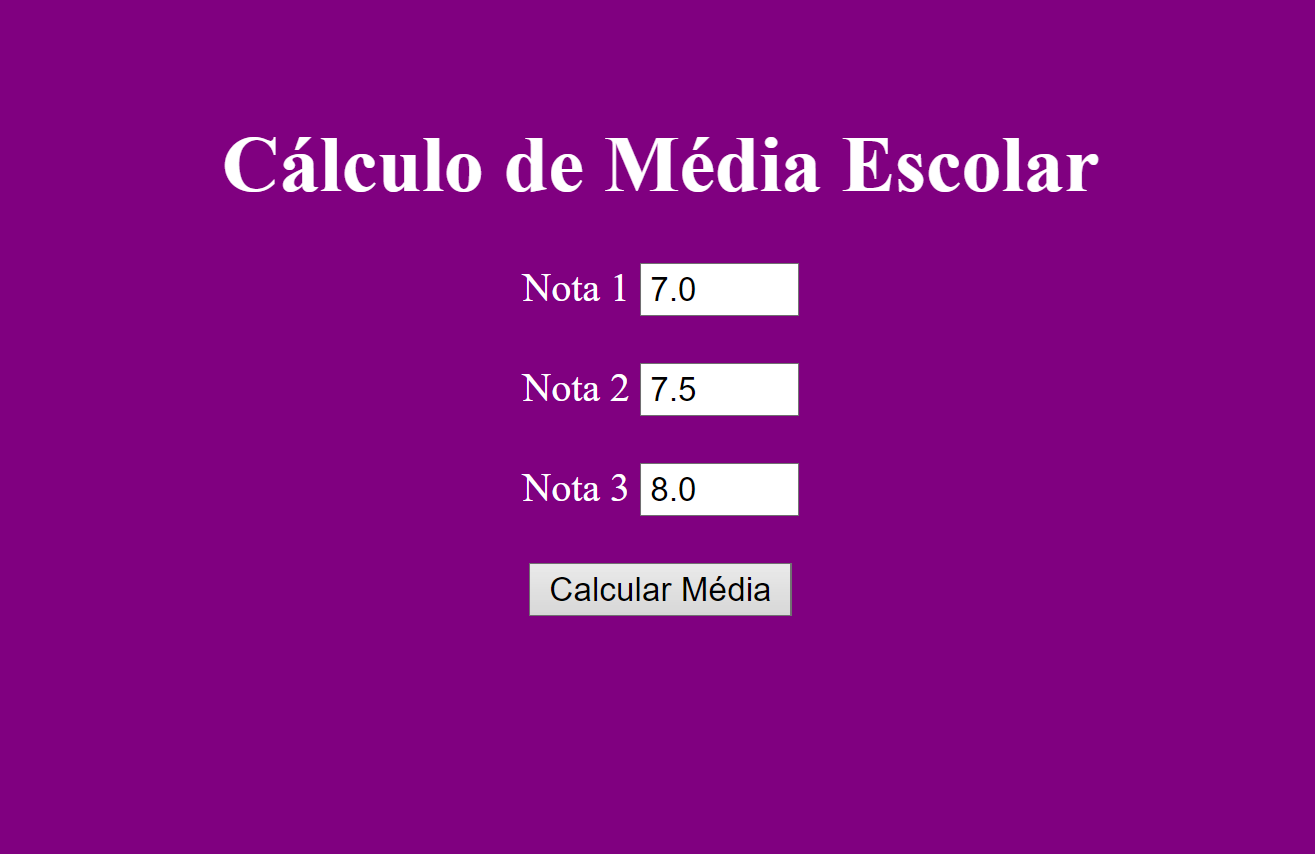
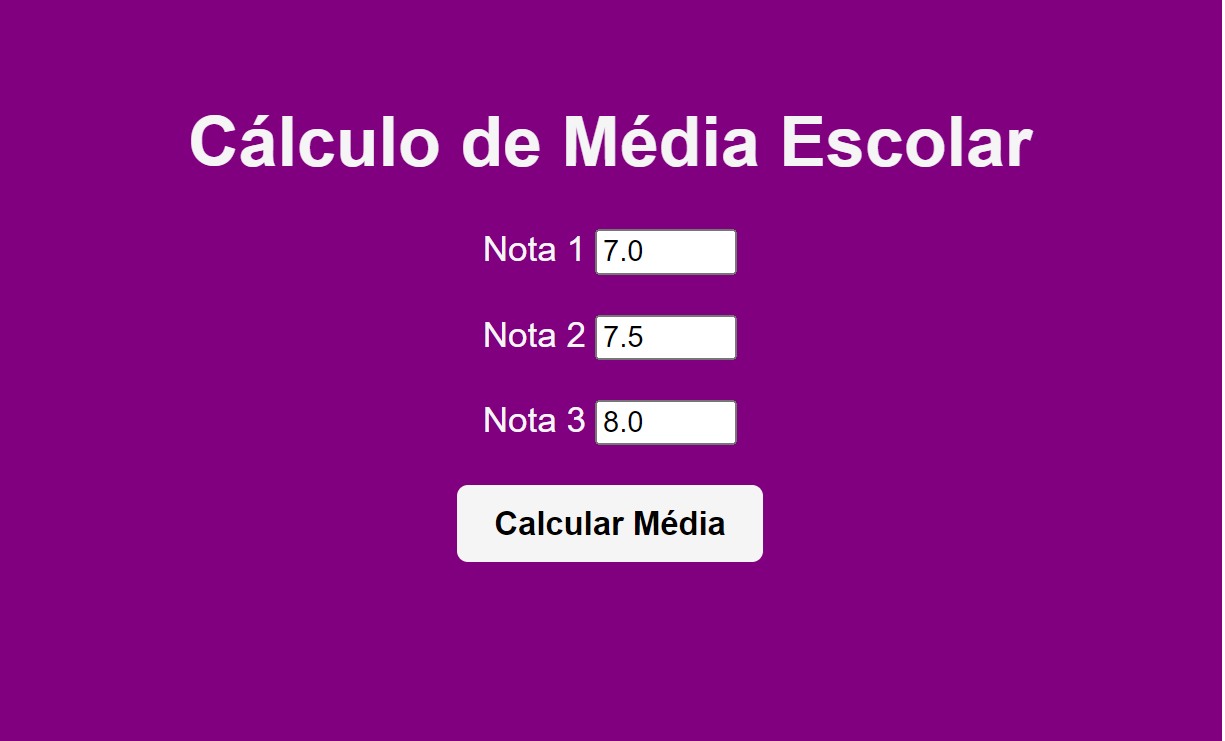
Add files via upload

diff --git a/JavaScript + HTML/atividade_93_média_notas/index.html b/JavaScript + HTML/atividade_93_média_notas/index.html
@@ -5,20 +5,21 @@
     <meta http-equiv="X-UA-Compatible" content="IE=edge">
     <meta name="viewport" content="width=device-width, initial-scale=1.0">
     <title>Média Escolar</title>
+    <link rel="stylesheet" href="style.css">
 </head>
 <body bgcolor="purple">
 
     <center>
 
         <br>
-        <h1 style="color:white;">Cálculo de Média Escolar</h1>
-        <label style="color:white;">Nota 1</label>
+        <h1 class="texts">Cálculo de Média Escolar</h1>
+        <label class="texts">Nota 1</label>
         <input id="inptUm" type="number" min="0" max="10"><br><br>
-        <label style="color:white;">Nota 2</label>
+        <label class="texts">Nota 2</label>
         <input id="inptDois" type="number" min="0" max="10"><br><br>
-        <label style="color:white;">Nota 3</label>
+        <label class="texts">Nota 3</label>
         <input id="inptTres" type="number" min="0" max="10"><br><br>
-        <button onclick="CalculaMedia()">Calcular Média</button>
+        <button class="btns" onclick="CalculaMedia()">Calcular Média</button>
 
     </center>
 

diff --git a/JavaScript + HTML/atividade_93_média_notas/style.css b/JavaScript + HTML/atividade_93_média_notas/style.css
@@ -1,0 +1,21 @@
+.texts{
+
+    color: whitesmoke;
+    font-family: Arial, Helvetica, sans-serif;
+
+}
+
+.btns{
+
+    height: 35px;
+    width: 140px;
+    background-color: whitesmoke;
+    color: black;
+    border: solid 1px whitesmoke;
+    border-radius: 5px;
+    font-family: Arial, Helvetica, sans-serif;
+    font-size: 15px;
+    font-weight: bold;
+
+}
+
